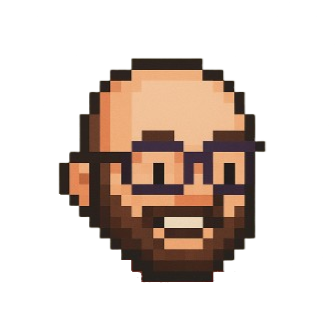
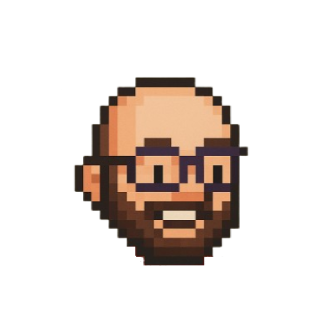
character blinking in top bar

Changed region(s): [[0.1791, 0.1493, 0.806, 0.8657]]

diff --git a/app/components/Topbar.tsx b/app/components/Topbar.tsx
@@ -1,34 +1,76 @@
 "use client";
 
+import { useCharacter } from "../context/CharacterContext";
+
 interface TopBarProps {
   onBack?: () => void;
 }
 
 export default function TopBar({ onBack }: TopBarProps) {
+  const { character } = useCharacter();
+
+  const thumbnails: Record<string, { normal: string; blink: string }> = {
+    software: {
+      normal: "/characters/software-head.png",
+      blink: "/characters/software-head-blinking.png",
+    },
+    dj: {
+      normal: "/characters/dj-head.png",
+      blink: "/characters/dj-head-blinking.png",
+    },
+    designer: {
+      normal: "/characters/designer-head.png",
+      blink: "/characters/designer-head-blinking.png",
+    },
+  };
+
   return (
-    <header className="relative flex justify-between items-center overflow-hidden"
+    <header
+      className="relative flex justify-between items-center overflow-hidden"
       style={{
-        height: '80px',
-        border: '4px solid #212529',
-        boxShadow: '0 4px 0 0 #212529',
+        height: "80px",
+        border: "4px solid #212529",
+        boxShadow: "0 4px 0 0 #212529",
       }}
     >
-      {/* Background animated webp */}
       <img
         src="/topbar-bg-gif.gif"
         alt="Topbar Background"
         className="absolute w-full h-full object-cover"
       />
 
-      {/* Dark overlay to maintain NES.css dark theme */}
-      {/* <div className="absolute inset-0 bg-black opacity-50 z-0"></div> */}
+      <div
+        className="relative flex justify-between w-full items-center"
+        style={{ padding: "0 1rem" }}
+      >
+        <h1 className="nes-text is-primary text-xl">My Retro Portfolio</h1>
 
-      {/* Topbar content - centered vertically */}
-      <div className="relative flex justify-between w-full items-center " style={{ padding: '0 1rem'}}>
-        <h1 className="nes-text is-primary text-xl ">My Retro Portfolio</h1>
-        <button className="nes-btn is-error py-2" onClick={onBack}>
-          Change Character
-        </button>
+        <div className="flex items-center space-x-4">
+          {character && thumbnails[character] && (
+            <div
+              className="relative w-12 h-12"
+              style={{ imageRendering: "pixelated" }}
+            >
+              {/* Normal image always visible */}
+              <img
+                src={thumbnails[character].normal}
+                alt={`${character} normal`}
+                className="absolute inset-0 w-full h-full"
+              />
+
+              {/* Blink frame overlays occasionally */}
+              <img
+                src={thumbnails[character].blink}
+                alt={`${character} blink`}
+                className=" inset-0 w-full h-full pixel-blink"
+              />
+            </div>
+          )}
+
+          <button className="nes-btn is-error" onClick={onBack}>
+            Change
+          </button>
+        </div>
       </div>
     </header>
   );

diff --git a/app/globals.css b/app/globals.css
@@ -103,3 +103,12 @@ body {
   filter: drop-shadow(1px 1px 0 #000);
   transition: transform 0.1s;
 }
+
+.pixel-blink {
+  animation: blink 5s infinite steps(1);
+}
+
+@keyframes blink {
+  0%, 92%, 100% { opacity: 0; } /* Hidden most of the time */
+  93%, 97% { opacity: 1; }      /* Show blink frame briefly */
+}
